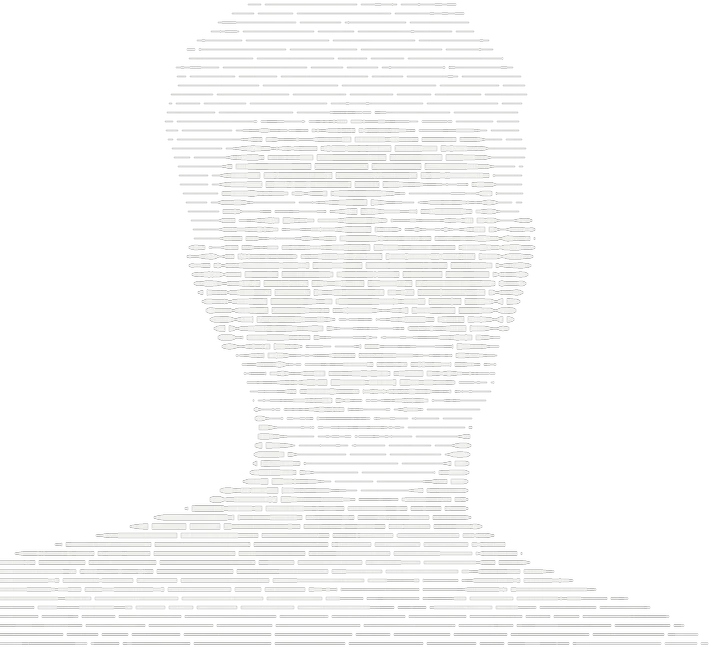
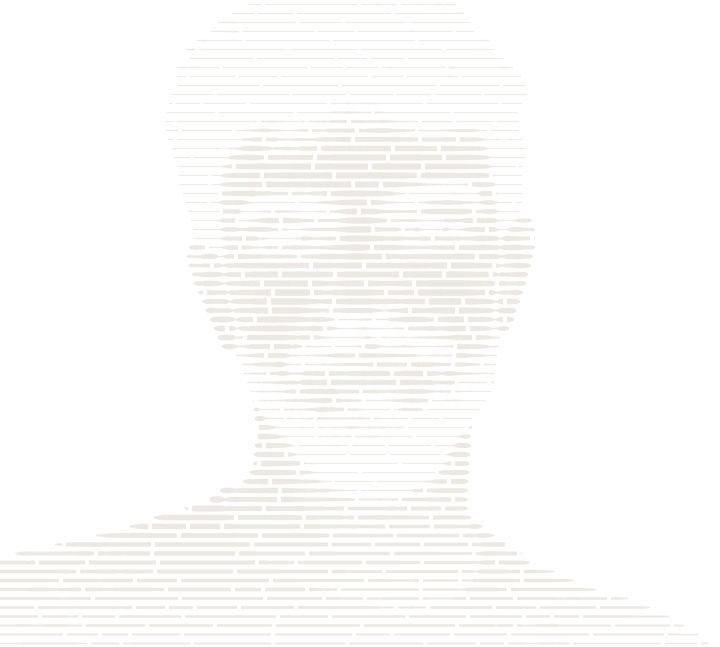
style(theme): try a black, concrete white and site yellow palette

Changed region(s): [[0.0, 0.1546, 0.9778, 1.0], [0.6111, 0.0, 0.6417, 0.0309], [0.3056, 0.0309, 0.3361, 0.0618]]

diff --git a/_includes/site.css b/_includes/site.css
@@ -42,13 +42,28 @@
 
 /* ---------- Jetons ---------- */
 :root {
-  --paper: #F2F2EE;
-  --plate: #D6DCE8;
-  --ink: #183F8F;
-  --ink-deep: #11306F;
-  --ink-soft: #4B5F8E;
-  --pale: #C9D3EA;
-  --mark: #FFD24A;
+  /* Palette « chantier » : blanc béton, noir, jaune chantier. Contrastes du texte : design/revue.md. */
+  --paper: #ECE9E3;    /* fond clair, texte sur les champs noirs */
+  --plate: #DCD8D0;    /* panneaux et cadres posés sur le fond */
+  --ink: #0E0E0E;      /* texte, boutons, champs noirs (clients, contact, pied de page) */
+  --ink-deep: #1E1E1E; /* surface posée sur un champ noir (clé minisign) */
+  --ink-soft: #55514A; /* texte secondaire sur le fond clair */
+  --pale: #B8B2A7;     /* texte secondaire sur les champs noirs */
+  --mark: #F5C400;     /* accent : surlignage, survol des boutons, trait lu, onglet en cours */
+
+  /* teintes des dessins en canvas (assets/js/trades.js) */
+  --sheet: #F6F4EF;
+  --bar: #9E998F;
+  --bar-dark: #7A766D;
+  --bone: #E4E0D8;
+  --cream: #F9E08A;
+  --code: #8F8A80;
+
+  /* drapeaux du sélecteur de langue : leurs vraies couleurs, le blanc pris au fond */
+  --flag-fr-blue: #0055A4;
+  --flag-fr-red: #EF4135;
+  --flag-gb-blue: #012169;
+  --flag-gb-red: #C8102E;
 
   --font-ui: "Mona Sans", "Mona Repli", system-ui, sans-serif;
   --font-display: "Mona Sans", "Mona Repli Affiche", system-ui, sans-serif;
@@ -270,7 +285,7 @@ h1, h2, h3, h4 { margin: 0; font-weight: inherit; }
   padding: 3px;
   border-radius: 999px;
   background: var(--plate);
-  box-shadow: inset 0 0 0 1px rgba(24, 63, 143, 0.12);
+  box-shadow: inset 0 0 0 1px color-mix(in srgb, var(--ink) 12%, transparent);
 }
 .lang[data-lang=en] { --on: 1; }
 .lang::before {
@@ -280,7 +295,7 @@ h1, h2, h3, h4 { margin: 0; font-weight: inherit; }
   width: var(--lw); height: var(--lw);
   border-radius: 50%;
   background: var(--ink);
-  box-shadow: 0 1px 2px rgba(17, 48, 111, 0.28);
+  box-shadow: 0 1px 2px color-mix(in srgb, var(--ink-deep) 28%, transparent);
   transform: translateX(calc(var(--on) * var(--lw)));
   transition: transform 0.46s cubic-bezier(0.3, 1.35, 0.45, 1);
 }
@@ -304,7 +319,7 @@ h1, h2, h3, h4 { margin: 0; font-weight: inherit; }
   filter: saturate(0.6);
   transition: opacity 0.3s ease, filter 0.3s ease, transform 0.46s cubic-bezier(0.3, 1.35, 0.45, 1);
 }
-.lang[data-lang=fr] [hreflang=fr] svg, .lang[data-lang=en] [hreflang=en] svg { opacity: 1; filter: none; box-shadow: 0 0 0 1px rgba(242, 242, 238, 0.5); }
+.lang[data-lang=fr] [hreflang=fr] svg, .lang[data-lang=en] [hreflang=en] svg { opacity: 1; filter: none; box-shadow: 0 0 0 1px color-mix(in srgb, var(--paper) 50%, transparent); }
 /* focus clavier : un halo autour de la pilule, le drapeau visé grossit */
 .lang-opt:focus-visible { outline: none; }
 .lang:has(.lang-opt:focus-visible) { outline: 2px solid var(--ink); outline-offset: 3px; }
@@ -316,7 +331,7 @@ h1, h2, h3, h4 { margin: 0; font-weight: inherit; }
 @media (max-width: 429px) {
   .bar-name { width: min-content; font-size: 15px; line-height: 1.02; }
 }
-.menu .lang { --lw: 38px; background: rgba(242, 242, 238, 0.16); box-shadow: none; }
+.menu .lang { --lw: 38px; background: color-mix(in srgb, var(--paper) 16%, transparent); box-shadow: none; }
 .menu .lang::before { background: var(--paper); box-shadow: none; }
 .menu .lang-opt svg { width: 26px; height: 26px; opacity: 0.92; filter: none; }
 .menu .lang:has(.lang-opt:focus-visible) { outline-color: var(--paper); }
@@ -678,7 +693,7 @@ a.brand-link:focus-visible { color: var(--ink); }
 /* téléphone : où l'on est parmi tous les contenus */
 .works-map { display: none; }
 @media (max-width: 959px) {
-  .works-map { display: block; position: relative; height: 3px; margin-top: 4px; background: rgb(201 211 234 / 0.3); }
+  .works-map { display: block; position: relative; height: 3px; margin-top: 4px; background: color-mix(in srgb, var(--pale) 30%, transparent); }
   .works-map i { position: absolute; top: 0; left: calc(var(--p, 0) * 92%); width: 8%; height: 100%; background: var(--mark); }
 }
 .works-groups span.is-pinned::before { content: "\2190\00a0"; }
@@ -986,7 +1001,7 @@ html.js .defn:not(.is-drawn) .defn-text, html.js .defn:not(.is-drawn) .defn-term
 .gerfaut { display: grid; gap: 32px; margin-top: clamp(64px, 8vw, 104px); }
 /* la capture de l'accueil sur ordinateur, à droite du texte */
 .gerfaut-shot { margin: 0; }
-.gerfaut-shot img { display: block; width: 100%; height: auto; border-radius: 10px; box-shadow: 0 1px 2px rgba(17, 48, 111, 0.12), 0 24px 48px -28px rgba(17, 48, 111, 0.5); }
+.gerfaut-shot img { display: block; width: 100%; height: auto; border-radius: 10px; box-shadow: 0 1px 2px color-mix(in srgb, var(--ink) 12%, transparent), 0 24px 48px -28px color-mix(in srgb, var(--ink) 50%, transparent); }
 .gerfaut-text > p { max-width: 56ch; }
 .gerfaut-text .title { margin-bottom: 20px; }
 @media (min-width: 960px) {
@@ -1074,7 +1089,7 @@ html.js .defn:not(.is-drawn) .defn-text, html.js .defn:not(.is-drawn) .defn-term
   padding: 36px var(--margin) calc(28px + env(safe-area-inset-bottom));
   background: var(--ink);
   color: var(--paper);
-  border-top: 1px solid rgba(201, 211, 234, 0.22);
+  border-top: 1px solid color-mix(in srgb, var(--pale) 22%, transparent);
   font: 520 var(--s-small)/1.5 var(--font-ui);
 }
 .foot p { margin: 0; }
@@ -1087,7 +1102,7 @@ html.js .defn:not(.is-drawn) .defn-text, html.js .defn:not(.is-drawn) .defn-term
   max-width: 760px;
   min-height: 52px;
   padding: 12px 14px 12px 16px;
-  border: 1px solid rgba(201, 211, 234, 0.28);
+  border: 1px solid color-mix(in srgb, var(--pale) 28%, transparent);
   border-radius: 8px;
   background: var(--ink-deep);
   color: var(--paper);
@@ -1098,12 +1113,12 @@ html.js .defn:not(.is-drawn) .defn-text, html.js .defn:not(.is-drawn) .defn-term
 }
 .keyblock-icon { flex: none; width: 20px; height: 20px; fill: none; stroke: var(--mark); stroke-width: 1.8; stroke-linecap: round; stroke-linejoin: round; }
 .keyblock code { flex: 1 1 auto; min-width: 0; font: 500 0.875rem/1.5 var(--font-code); letter-spacing: 0.01em; word-break: break-all; user-select: all; }
-.keyblock-act { display: none; flex: none; min-width: 5.5em; padding: 6px 10px; border-radius: 4px; background: rgba(242, 242, 238, 0.12); font: 640 0.8125rem/1 var(--font-ui); text-align: center; transition: background-color var(--t-answer) ease, color var(--t-answer) ease; }
+.keyblock-act { display: none; flex: none; min-width: 5.5em; padding: 6px 10px; border-radius: 4px; background: color-mix(in srgb, var(--paper) 12%, transparent); font: 640 0.8125rem/1 var(--font-ui); text-align: center; transition: background-color var(--t-answer) ease, color var(--t-answer) ease; }
 .keyblock.can-copy .keyblock-act { display: inline-block; }
 .keyblock.is-copied { border-color: var(--mark); }
 .keyblock.is-copied .keyblock-act { background: var(--mark); color: var(--ink); }
 @media (hover: hover) {
-  .keyblock:hover { border-color: rgba(242, 242, 238, 0.6); }
+  .keyblock:hover { border-color: color-mix(in srgb, var(--paper) 60%, transparent); }
   .keyblock:hover .keyblock-act { background: var(--paper); color: var(--ink); }
 }
 .keyblock:focus-visible { outline: 2px solid var(--paper); outline-offset: 3px; }
@@ -1124,7 +1139,7 @@ html.js .defn:not(.is-drawn) .defn-text, html.js .defn:not(.is-drawn) .defn-term
   .foot { grid-template-columns: minmax(0, 1fr) auto; grid-template-areas: "key links" "legal legal"; align-items: end; column-gap: 48px; padding-top: 44px; }
   .foot-key { grid-area: key; }
   .foot-links { grid-area: links; justify-content: flex-end; }
-  .foot-legal { grid-area: legal; padding-top: 18px; border-top: 1px solid rgba(201, 211, 234, 0.16); }
+  .foot-legal { grid-area: legal; padding-top: 18px; border-top: 1px solid color-mix(in srgb, var(--pale) 16%, transparent); }
 }
 
 /* Page introuvable */

diff --git a/_layouts/default.html b/_layouts/default.html
@@ -13,7 +13,7 @@
   <meta charset="utf-8">
   <meta name="viewport" content="width=device-width,initial-scale=1">
   <meta name="referrer" content="strict-origin-when-cross-origin">
-  <meta name="theme-color" content="#F2F2EE">
+  <meta name="theme-color" content="#ECE9E3">
   <meta name="color-scheme" content="light">
   <script>document.documentElement.classList.add('js')</script>
   <link rel="preconnect" href="https://static.cloudflareinsights.com">
@@ -63,8 +63,8 @@
   <a href="#contenu" class="skip">{{ t.skip }}</a>
   {%- comment -%} Drapeaux du sélecteur de langue, dessinés une fois et repris par <use>. {%- endcomment %}
   <svg class="sr" aria-hidden="true" focusable="false">
-    <symbol id="drapeau-fr" viewBox="0 0 30 30"><path fill="#183F8F" d="M0 0h10v30H0z"/><path fill="#F2F2EE" d="M10 0h10v30H10z"/><path fill="#E1242F" d="M20 0h10v30H20z"/></symbol>
-    <symbol id="drapeau-gb" viewBox="15 0 30 30"><clipPath id="drapeau-gb-t"><path d="M30 15h30v15zv15H0zH0V0zV0h30z"/></clipPath><path fill="#11306F" d="M0 0h60v30H0z"/><path stroke="#F2F2EE" stroke-width="6" d="M0 0l60 30m0-30L0 30"/><path stroke="#D22630" stroke-width="4" clip-path="url(#drapeau-gb-t)" d="M0 0l60 30m0-30L0 30"/><path stroke="#F2F2EE" stroke-width="10" d="M30 0v30M0 15h60"/><path stroke="#D22630" stroke-width="6" d="M30 0v30M0 15h60"/></symbol>
+    <symbol id="drapeau-fr" viewBox="0 0 30 30"><path style="fill:var(--flag-fr-blue)" d="M0 0h10v30H0z"/><path style="fill:var(--paper)" d="M10 0h10v30H10z"/><path style="fill:var(--flag-fr-red)" d="M20 0h10v30H20z"/></symbol>
+    <symbol id="drapeau-gb" viewBox="15 0 30 30"><clipPath id="drapeau-gb-t"><path d="M30 15h30v15zv15H0zH0V0zV0h30z"/></clipPath><path style="fill:var(--flag-gb-blue)" d="M0 0h60v30H0z"/><path style="stroke:var(--paper)" stroke-width="6" d="M0 0l60 30m0-30L0 30"/><path style="stroke:var(--flag-gb-red)" stroke-width="4" clip-path="url(#drapeau-gb-t)" d="M0 0l60 30m0-30L0 30"/><path style="stroke:var(--paper)" stroke-width="10" d="M30 0v30M0 15h60"/><path style="stroke:var(--flag-gb-red)" stroke-width="6" d="M30 0v30M0 15h60"/></symbol>
   </svg>
 
   <header class="bar" data-bar>

diff --git a/assets/js/lines.js b/assets/js/lines.js
@@ -139,6 +139,8 @@ const UNIFORMS = ['uMark', 'uRes', 'uDpr', 'uFigA', 'uFigB', 'uInv', 'uMorph', '
   'uPitch', 'uThick', 'uInk', 'uPaper', 'uMouse', 'uLens', 'uLensR', 'uMag', 'uLensShape', 'uVignette', 'uDraw', 'uFlat', 'uTime', 'uWave', 'uRipple', 'uHi[0]', 'uHiOn'];
 
 const hex = (h) => [1, 3, 5].map((i) => parseInt(h.slice(i, i + 2), 16) / 255);
+// une couleur du site, lue dans ses variables CSS (_includes/site.css)
+export const cssColor = (n) => getComputedStyle(document.documentElement).getPropertyValue(n).trim();
 
 // Ressort critique amorti : rapproche value de target.
 export function spring(s, target, dt, k = 170, c = 16) {
@@ -160,7 +162,7 @@ export class LineStage {
     this.el = el;
     this.box = el.querySelector('.stage-box') || el;
     this.canvas = el.querySelector('canvas');
-    this.o = Object.assign({ ink: '#183F8F', paper: '#F2F2EE', pitch: [7, 6], thick: [0.08, 0.78], lensR: [110, 84], mag: 2.3, ampRows: 1 }, o);
+    this.o = Object.assign({ ink: cssColor('--ink'), paper: cssColor('--paper'), mark: cssColor('--mark'), pitch: [7, 6], thick: [0.08, 0.78], lensR: [110, 84], mag: 2.3, ampRows: 1 }, o);
     this.gl = null;
     this.w = 0; this.h = 0; this.dpr = 1;
     this.mouse = { x: -999, y: -999 };
@@ -209,7 +211,7 @@ export class LineStage {
     gl.uniform1i(this.u.uFigA, 0); gl.uniform1i(this.u.uFigB, 1); gl.uniform1i(this.u.uText, 2); gl.uniform1i(this.u.uAmp, 3);
     gl.uniform3fv(this.u.uInk, hex(this.o.ink));
     gl.uniform3fv(this.u.uPaper, hex(this.o.paper));
-    gl.uniform3fv(this.u.uMark, hex(this.o.mark || '#FFD24A'));
+    gl.uniform3fv(this.u.uMark, hex(this.o.mark));
     this.inv = [0, 0];
     this.resize(true);
     this.el.classList.add('is-live');

diff --git a/assets/js/trades.js b/assets/js/trades.js
@@ -9,10 +9,12 @@ const lerp = (a, b, t) => a + (b - a) * t;
 const ease = (t) => (t < 0.5 ? 4 * t * t * t : 1 - Math.pow(-2 * t + 2, 3) / 2);
 
 const HEX = (h) => [parseInt(h.slice(1, 3), 16), parseInt(h.slice(3, 5), 16), parseInt(h.slice(5, 7), 16)];
+// les couleurs viennent des variables CSS du site (_includes/site.css)
+const V = (n) => HEX(getComputedStyle(document.documentElement).getPropertyValue(n).trim());
 const C = {
-  ink: HEX('#183F8F'), deep: HEX('#11306F'), paper: HEX('#F2F2EE'), sheet: HEX('#FAFAF7'),
-  plate: HEX('#D6DCE8'), pale: HEX('#C9D3EA'), soft: HEX('#4B5F8E'), mark: HEX('#FFD24A'),
-  bar: HEX('#8A9BC8'), barDark: HEX('#6F82B4'), bone: HEX('#E7EBF3'), cream: HEX('#F4E2A1'), code: HEX('#5B77B8'),
+  ink: V('--ink'), deep: V('--ink-deep'), paper: V('--paper'), sheet: V('--sheet'),
+  plate: V('--plate'), pale: V('--pale'), soft: V('--ink-soft'), mark: V('--mark'),
+  bar: V('--bar'), barDark: V('--bar-dark'), bone: V('--bone'), cream: V('--cream'), code: V('--code'),
 };
 const mixc = (a, b, t) => [lerp(a[0], b[0], t), lerp(a[1], b[1], t), lerp(a[2], b[2], t)];
 const rgba = (c, a = 1) => `rgba(${c[0] | 0},${c[1] | 0},${c[2] | 0},${a})`;

diff --git a/assets/js/site.js b/assets/js/site.js
@@ -676,7 +676,7 @@ async function initStages() {
           s.letters = r.letters; s.ampRows = lines.length;
           return { canvas: r.canvas };
         },
-        letters: true, ink: '#F2F2EE', paper: '#183F8F', pitch: [6, 3.5], thick: [0.1, 0.84], lensR: [0, 0], mag: 1, drawn: reduce, drawK: 40, drawC: 12.6,
+        letters: true, ink: mod.cssColor('--paper'), paper: mod.cssColor('--ink'), pitch: [6, 3.5], thick: [0.1, 0.84], lensR: [0, 0], mag: 1, drawn: reduce, drawK: 40, drawC: 12.6,
       });
       st.kind = 'name';
     }
